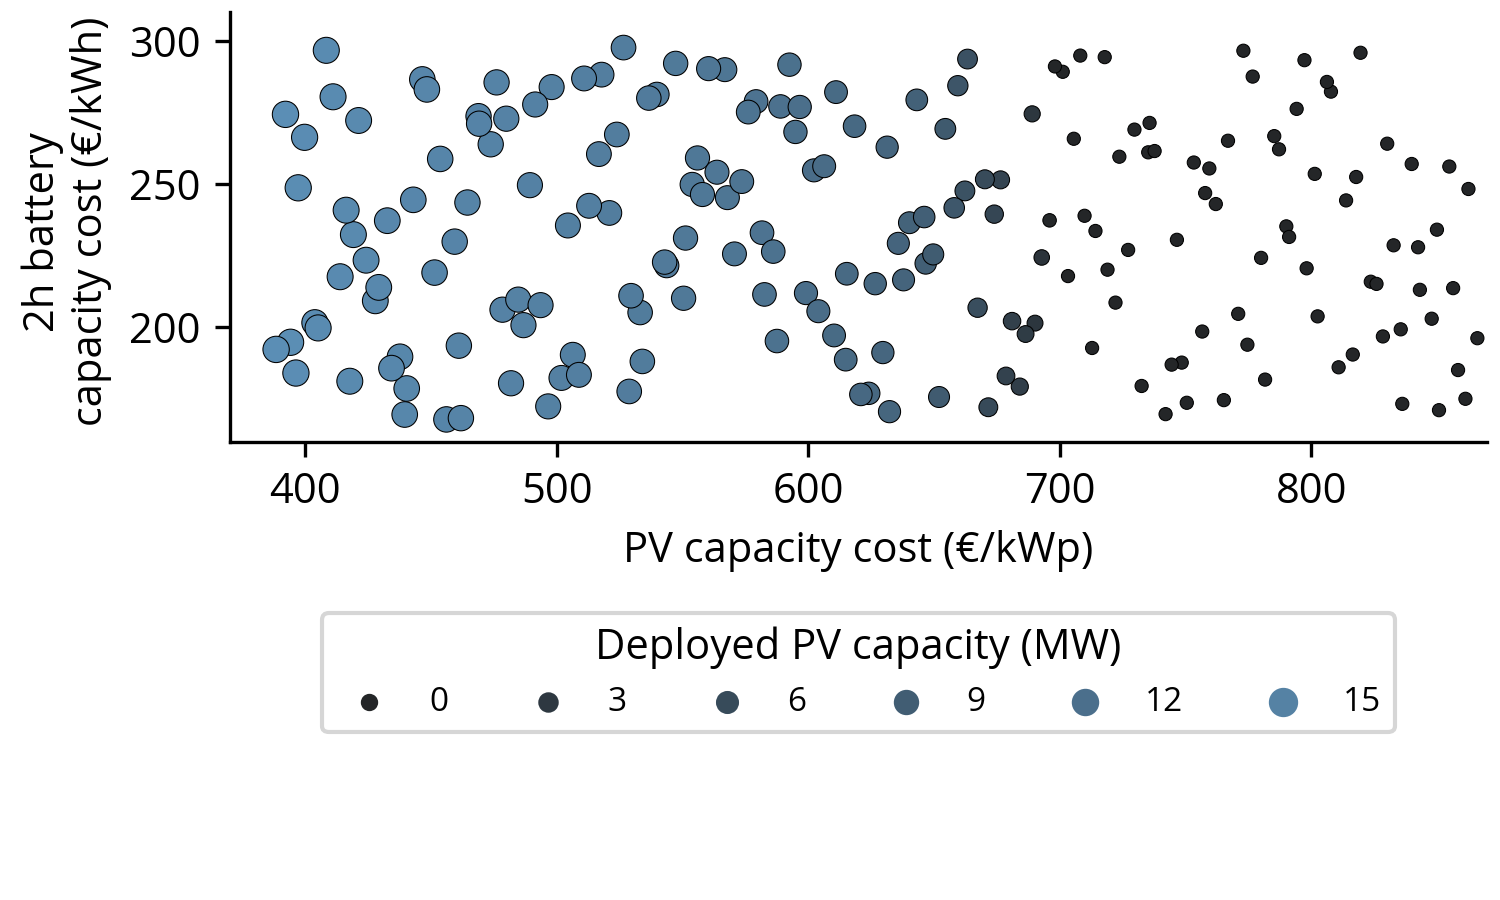
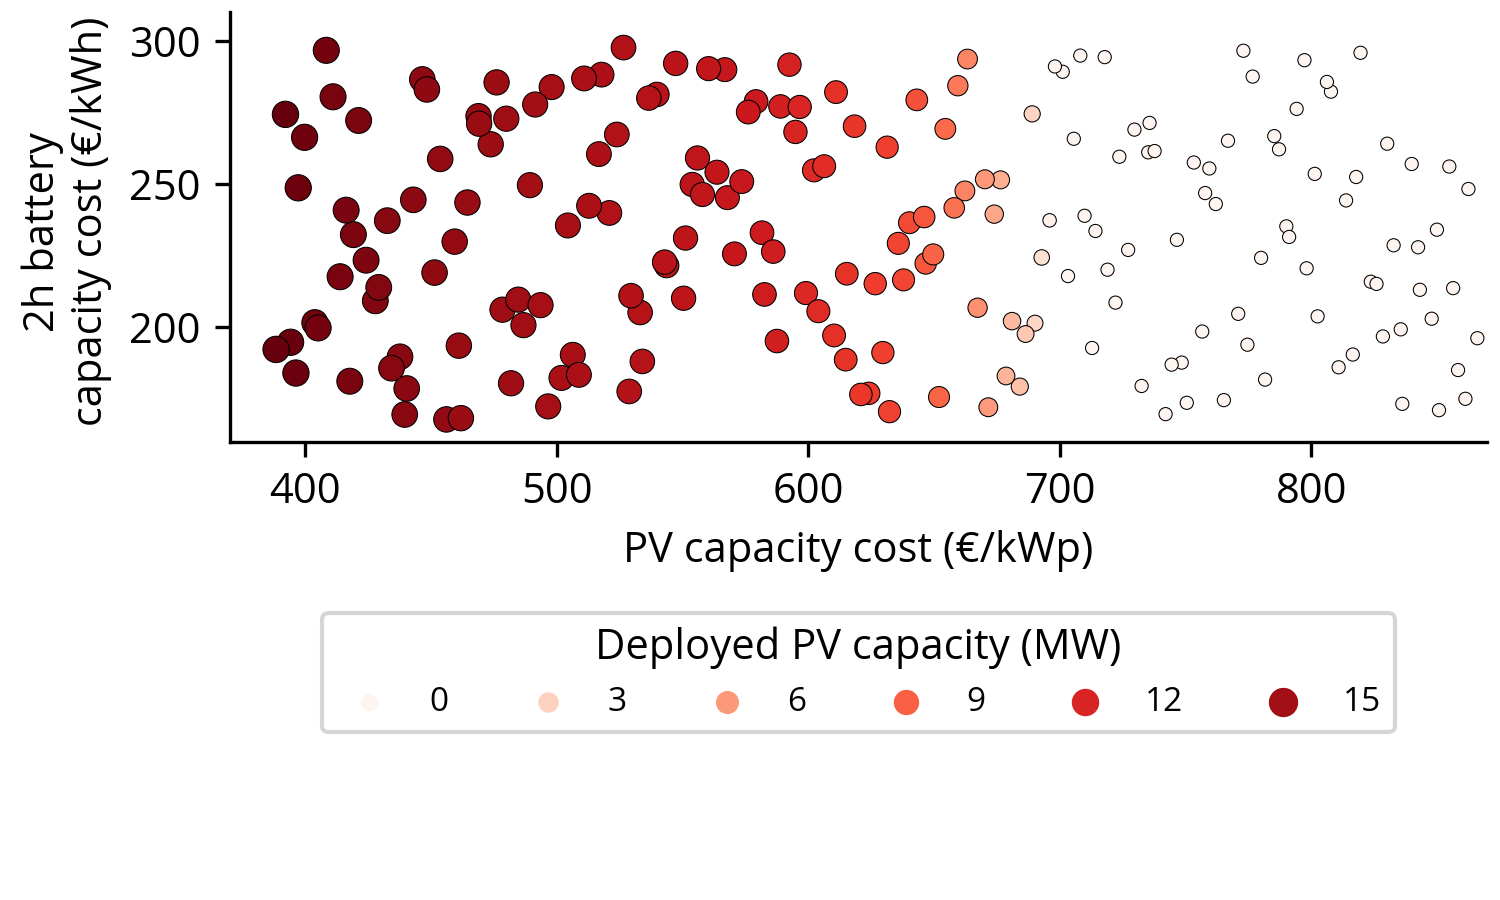
bivariate to reds palette

diff --git a/thesis scripts/experiments/cablepool/analysis/report_cablepool_postprocess.py b/thesis scripts/experiments/cablepool/analysis/report_cablepool_postprocess.py
@@ -151,7 +151,7 @@ sns.scatterplot(
     size=pv_col,
     hue=pv_col,
     data=df,
-    palette="dark:#5b8eb5",
+    palette="Reds",
     sizes=(10, 40),
     ax=ax,
     edgecolor="black"
